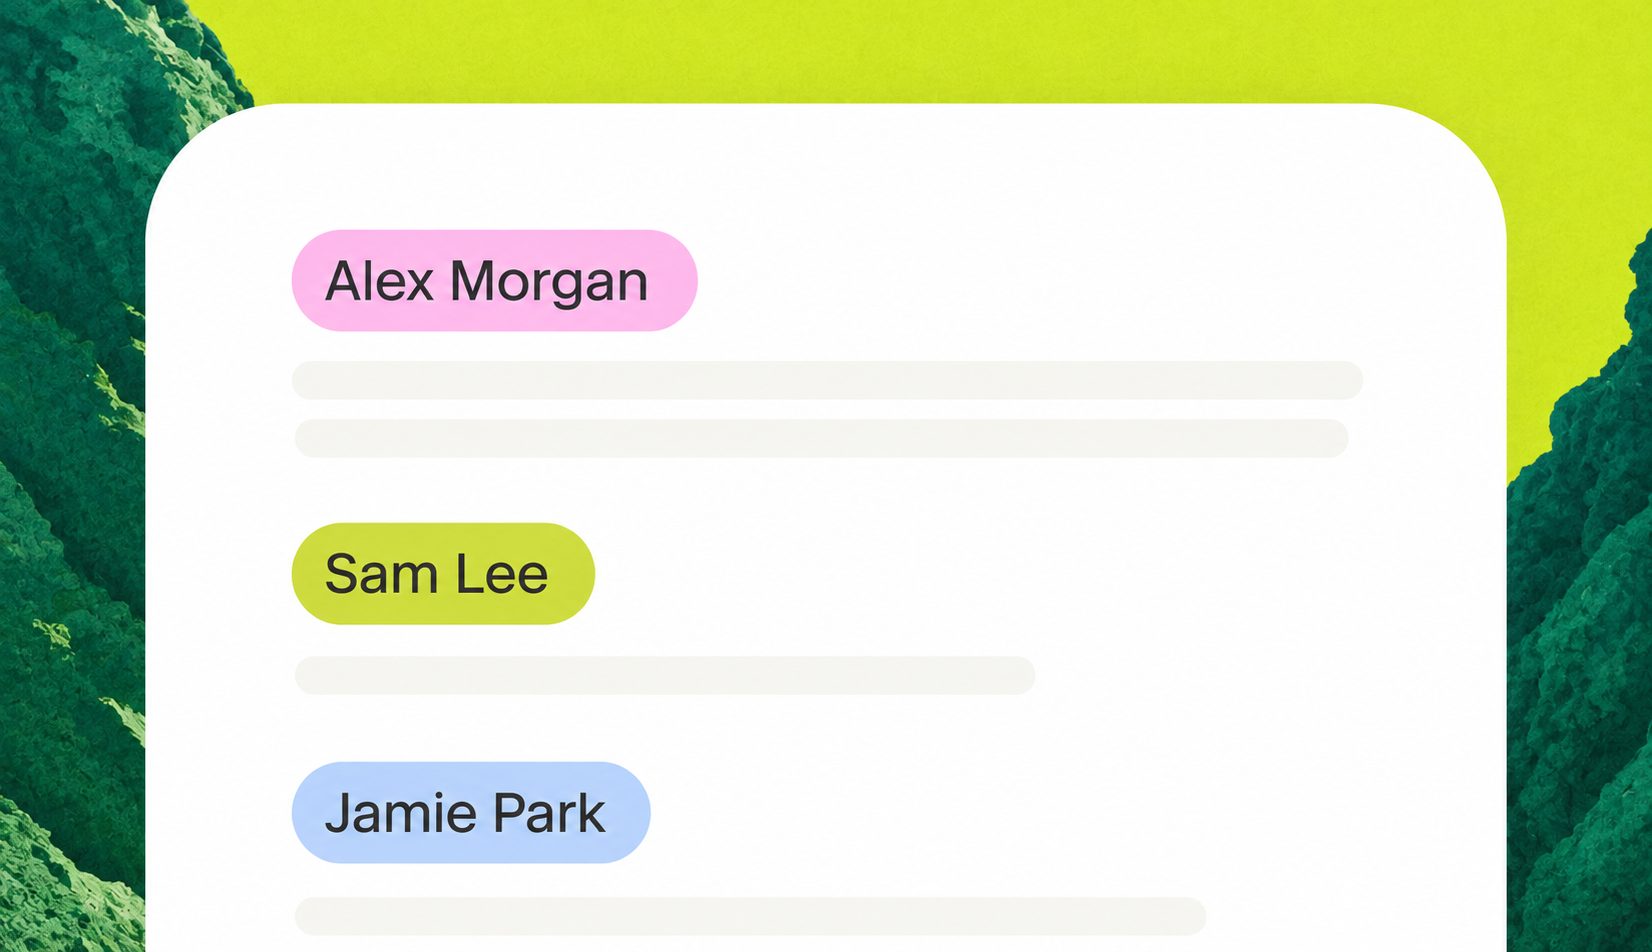
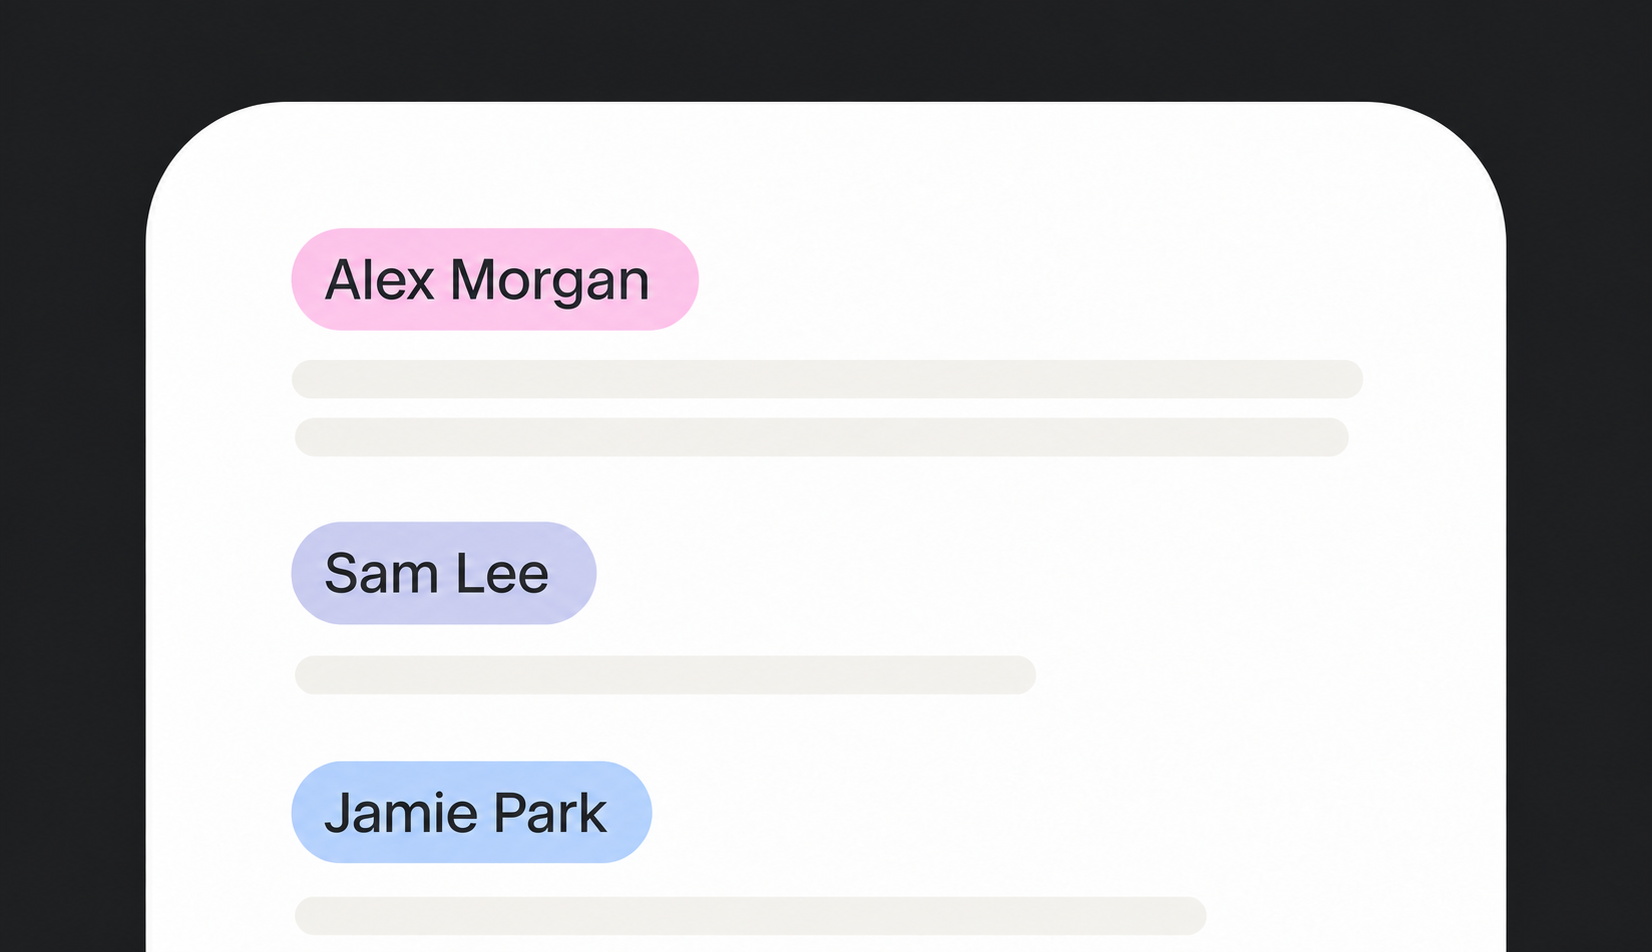
fix: align accessibility prompt with app theme

diff --git a/apps/web/src/components/desktop/accessibility-permission-prompt.tsx b/apps/web/src/components/desktop/accessibility-permission-prompt.tsx
@@ -1,3 +1,4 @@
+import { Button } from "@workspace/ui/components/button";
 import {
 	Dialog,
 	DialogContent,
@@ -72,12 +73,12 @@ export function AccessibilityPermissionPrompt({
 			<DialogContent
 				showCloseButton={false}
 				onPointerDownOutside={(event) => event.preventDefault()}
-				overlayClassName="bg-black/75 backdrop-blur-[3px]"
-				className="gap-0 rounded-[18px] bg-[#292929] p-2 font-[system-ui] text-white ring-1 ring-white/10 sm:max-w-sm"
+				className="gap-0 bg-card p-2 text-card-foreground"
 			>
-				<button
+				<Button
 					type="button"
-					className="absolute z-60 rounded-full bg-[#383838] px-4 py-2 text-sm text-white hover:bg-[#484848] focus-visible:outline-2 focus-visible:outline-offset-2 focus-visible:outline-lime-300"
+					variant="secondary"
+					className="absolute z-60"
 					style={{
 						top: "calc(50% - 50vh + 1rem)",
 						right: "calc(50% - 50vw + 1rem)",
@@ -85,37 +86,36 @@ export function AccessibilityPermissionPrompt({
 					onClick={dismiss}
 				>
 					Remind me later
-				</button>
+				</Button>
 				<img
 					src="/accessibility-speakers.png"
 					alt=""
-					className="aspect-352/203 w-full rounded-xl object-cover"
+					className="aspect-352/203 w-full rounded-md object-cover"
 				/>
 				<div className="flex flex-col gap-3 p-2 pt-5">
 					<div className="space-y-2">
-						<DialogTitle className="font-serif text-[24px] leading-7 font-normal">
+						<DialogTitle className="text-2xl leading-7 font-normal">
 							See who's speaking
 						</DialogTitle>
-						<DialogDescription className="text-pretty text-[14px] leading-[18px] tracking-[0.01em] text-neutral-400">
+						<DialogDescription className="text-pretty text-[14px] leading-[18px] tracking-[0.01em]">
 							Graneri needs Accessibility permission to identify speakers by
 							name. Until you enable it, your transcripts won’t clearly show who
 							said what.
 						</DialogDescription>
 						{permission.error ? (
-							<p role="alert" className="text-sm text-red-300">
+							<p role="alert" className="text-sm text-destructive">
 								{permission.error}
 							</p>
 						) : null}
 					</div>
 					<div className="flex justify-end pt-2">
-						<button
+						<Button
 							type="button"
 							disabled={permission.isRequesting}
 							onClick={() => void permission.request()}
-							className="rounded-full bg-white px-4 py-2 text-sm font-medium text-neutral-900 hover:bg-neutral-100 focus-visible:outline-2 focus-visible:outline-offset-2 focus-visible:outline-lime-300 disabled:opacity-60"
 						>
 							{permission.isRequesting ? "Opening…" : "Enable"}
-						</button>
+						</Button>
 					</div>
 				</div>
 			</DialogContent>
